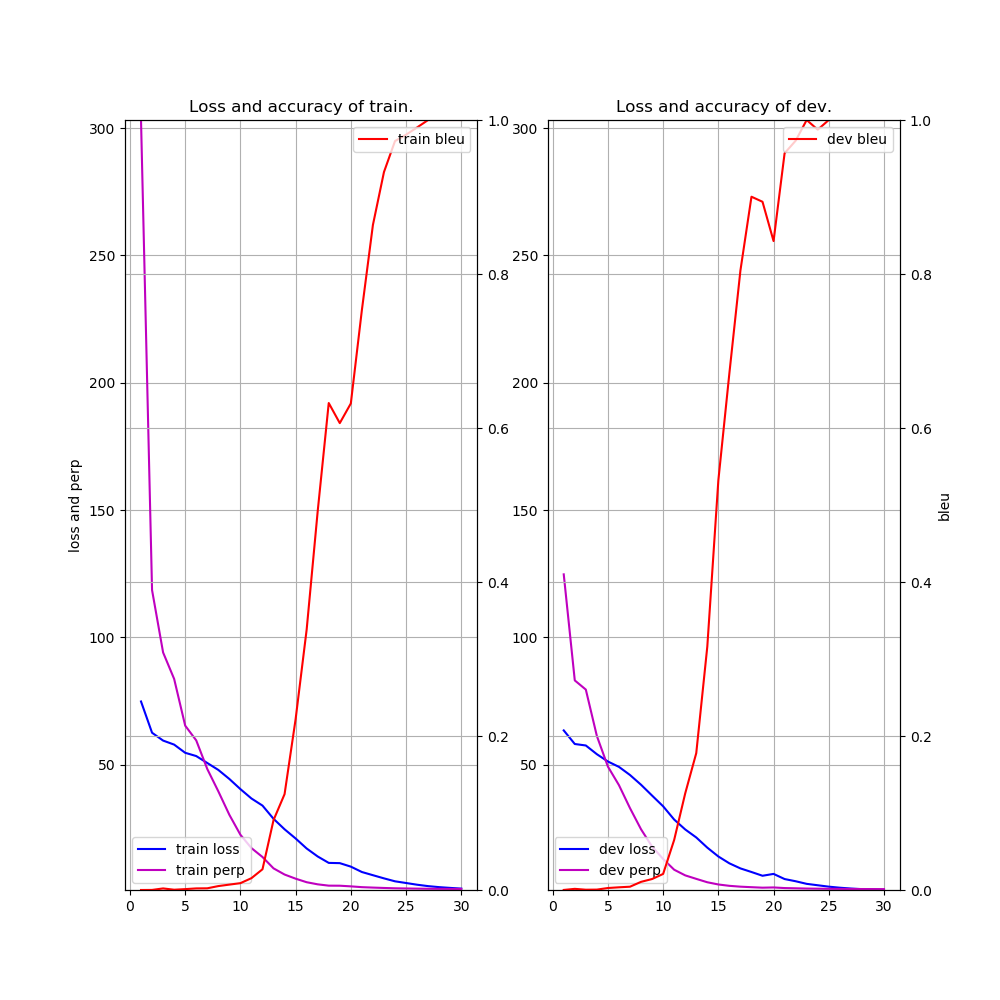
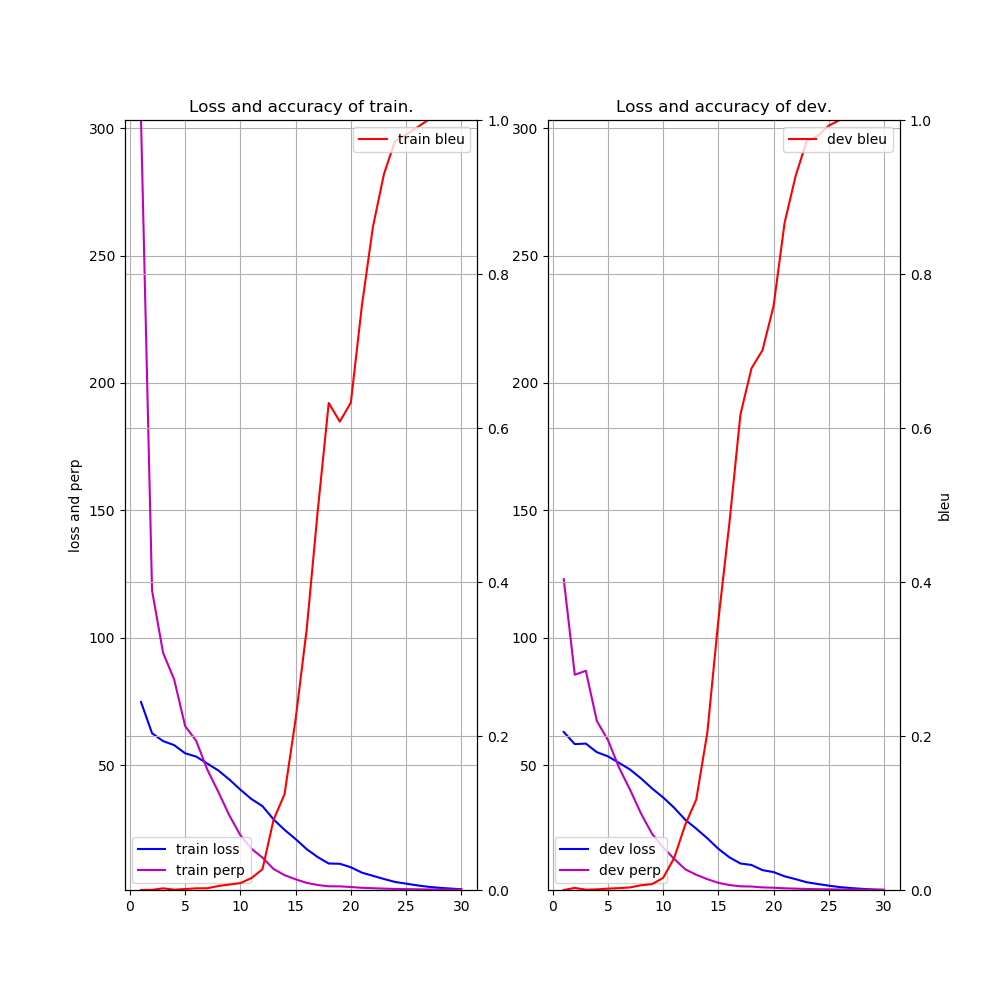
some updated

diff --git a/seq2seq/train_seq2seq.py b/seq2seq/train_seq2seq.py
@@ -350,10 +350,10 @@ def main():
                 hypotheses = [y.tolist() for y in model.translate(xs, max_length=100)]
                 bleu = bleu_score.corpus_bleu(references, hypotheses, smoothing_function=bleu_score.SmoothingFunction().method1)
 
-            sum_test_loss += float(loss.data) * len(ys)
-            sum_test_accuracy1 += float(perp) * len(ys)
-            sum_test_accuracy2 += float(bleu) * len(ys)
-            K += len(ys)
+                sum_test_loss += float(loss.data) * len(ys)
+                sum_test_accuracy1 += float(perp) * len(ys)
+                sum_test_accuracy2 += float(bleu) * len(ys)
+                K += len(ys)
 
         # テストデータでの誤差と正解精度を表示
         mean_test_loss = sum_test_loss / K

diff --git a/seq2seq/README.md b/seq2seq/README.md
@@ -159,40 +159,40 @@ No.4	(bleu 1.0000)
 
 - results/train_seq2seq-ogra.log (use **train_seq2seq.py**)
 ```
-2018-09-27 08:06:32,288 - load_data - INFO - loading...: datasets/ogura/ogura.preprocess.en
-2018-09-27 08:06:32,288 - load_data - INFO - loading...: datasets/ogura/ogura.preprocess.de
-2018-09-27 08:06:32,290 - main - INFO - Source vocabulary size: 317
-2018-09-27 08:06:32,290 - main - INFO - Target vocabulary size: 317
-2018-09-27 08:06:32,290 - main - INFO - Train data size: 100
-2018-09-27 08:06:32,290 - main - INFO - Train source unknown ratio: 0.00%
-2018-09-27 08:06:32,290 - main - INFO - Train target unknown ratio: 0.00%
-2018-09-27 08:06:32,290 - load_data - INFO - loading...: datasets/ogura/ogura.preprocess.en
-2018-09-27 08:06:32,291 - load_data - INFO - loading...: datasets/ogura/ogura.preprocess.de
-2018-09-27 08:06:32,293 - main - INFO - Validation data: 100
-2018-09-27 08:06:32,293 - main - INFO - Validation source unknown ratio: 0.00%
-2018-09-27 08:06:32,293 - main - INFO - Validation target unknown ratio: 0.00%
-2018-09-27 08:07:28,491 - main - INFO - # source : 浅 茅 生 の 小 野 の 篠 原 し の ぶ れ ど
-2018-09-27 08:07:28,492 - main - INFO - #  result : の の の の
-2018-09-27 08:07:28,492 - main - INFO - #  expect : あ ま り て な ど か 人 の 恋 し き
-2018-09-27 08:07:28,492 - main - INFO - [  1] T/loss=74.773455 T/perp=303.238386 T/bleu=0.000610 T/sec= 33.265002 D/loss=63.409412 D/perp=124.721887 D/bleu=0.000681 D/sec= 17.227816 lr=0.001000
-2018-09-27 08:07:28,492 - main - INFO - saving early stopped-model at epoch 1
+2018-09-28 08:12:28,160 - load_data - INFO - loading...: datasets/ogura/ogura.preprocess.en
+2018-09-28 08:12:28,161 - load_data - INFO - loading...: datasets/ogura/ogura.preprocess.de
+2018-09-28 08:12:28,163 - main - INFO - Source vocabulary size: 317
+2018-09-28 08:12:28,163 - main - INFO - Target vocabulary size: 317
+2018-09-28 08:12:28,163 - main - INFO - Train data size: 100
+2018-09-28 08:12:28,163 - main - INFO - Train source unknown ratio: 0.00%
+2018-09-28 08:12:28,163 - main - INFO - Train target unknown ratio: 0.00%
+2018-09-28 08:12:28,164 - load_data - INFO - loading...: datasets/ogura/ogura.preprocess.en
+2018-09-28 08:12:28,164 - load_data - INFO - loading...: datasets/ogura/ogura.preprocess.de
+2018-09-28 08:12:28,166 - main - INFO - Validation data: 100
+2018-09-28 08:12:28,166 - main - INFO - Validation source unknown ratio: 0.00%
+2018-09-28 08:12:28,166 - main - INFO - Validation target unknown ratio: 0.00%
+2018-09-28 08:13:21,483 - main - INFO - # source : 浅 茅 生 の 小 野 の 篠 原 し の ぶ れ ど
+2018-09-28 08:13:21,483 - main - INFO - #  result : の の の の
+2018-09-28 08:13:21,483 - main - INFO - #  expect : あ ま り て な ど か 人 の 恋 し き
+2018-09-28 08:13:21,483 - main - INFO - [  1] T/loss=74.773455 T/perp=303.238386 T/bleu=0.000610 T/sec= 30.353869 D/loss=62.988200 D/perp=122.972371 D/bleu=0.000516 D/sec= 17.097511 lr=0.001000
+2018-09-28 08:13:21,483 - main - INFO - saving early stopped-model at epoch 1
  :
-2018-09-27 08:42:29,764 - main - INFO - # source : め ぐ り あ ひ て 見 し や そ れ と も わ か ぬ 間 に
-2018-09-27 08:42:29,765 - main - INFO - #  result : 雲 が く れ に し 世 半 の 月 か な
-2018-09-27 08:42:29,765 - main - INFO - #  expect : 雲 が く れ に し 世 半 の 月 か な
-2018-09-27 08:42:29,765 - main - INFO - [ 30] T/loss=1.252662 T/perp=1.100753 T/bleu=1.000000 T/sec= 37.455061 D/loss=0.702746 D/perp=1.054942 D/bleu=1.000000 D/sec= 19.626164 lr=0.001000
-2018-09-27 08:42:30,015 - main - INFO - saving final-model at epoch 30
+2018-09-28 08:45:42,816 - main - INFO - # source : め ぐ り あ ひ て 見 し や そ れ と も わ か ぬ 間 に
+2018-09-28 08:45:42,816 - main - INFO - #  result : 雲 が く れ に し 世 半 の 月 か な
+2018-09-28 08:45:42,816 - main - INFO - #  expect : 雲 が く れ に し 世 半 の 月 か な
+2018-09-28 08:45:42,816 - main - INFO - [ 30] T/loss=1.252660 T/perp=1.100752 T/bleu=1.000000 T/sec= 36.302938 D/loss=0.956569 D/perp=1.075973 D/bleu=1.000000 D/sec= 17.272949 lr=0.001000
+2018-09-28 08:45:43,041 - main - INFO - saving final-model at epoch 30
 ```
 
 - results/test_seq2seq-ogura.log (use **test_seq2seq.py**)
 ```
-2018-09-27 08:59:52,355 - main - INFO - Source vocabulary size: 317
-2018-09-27 08:59:52,355 - main - INFO - Target vocabulary size: 317
-2018-09-27 08:59:52,356 - load_data - INFO - loading...: datasets/ogura/test.preprocess.en
-2018-09-27 08:59:52,356 - load_data - INFO - loading...: datasets/ogura/test.preprocess.de
-2018-09-27 08:59:52,357 - main - INFO - Validation data: 4
-2018-09-27 08:59:52,357 - main - INFO - Validation source unknown ratio: 0.00%
-2018-09-27 08:59:52,357 - main - INFO - Validation target unknown ratio: 0.00%
+2018-09-28 09:06:05,743 - main - INFO - Source vocabulary size: 317
+2018-09-28 09:06:05,743 - main - INFO - Target vocabulary size: 317
+2018-09-28 09:06:05,743 - load_data - INFO - loading...: datasets/ogura/test.preprocess.en
+2018-09-28 09:06:05,743 - load_data - INFO - loading...: datasets/ogura/test.preprocess.de
+2018-09-28 09:06:05,746 - main - INFO - Validation data: 4
+2018-09-28 09:06:05,746 - main - INFO - Validation source unknown ratio: 0.00%
+2018-09-28 09:06:05,746 - main - INFO - Validation target unknown ratio: 0.00%
 
 ### full enc-dec ###
 
